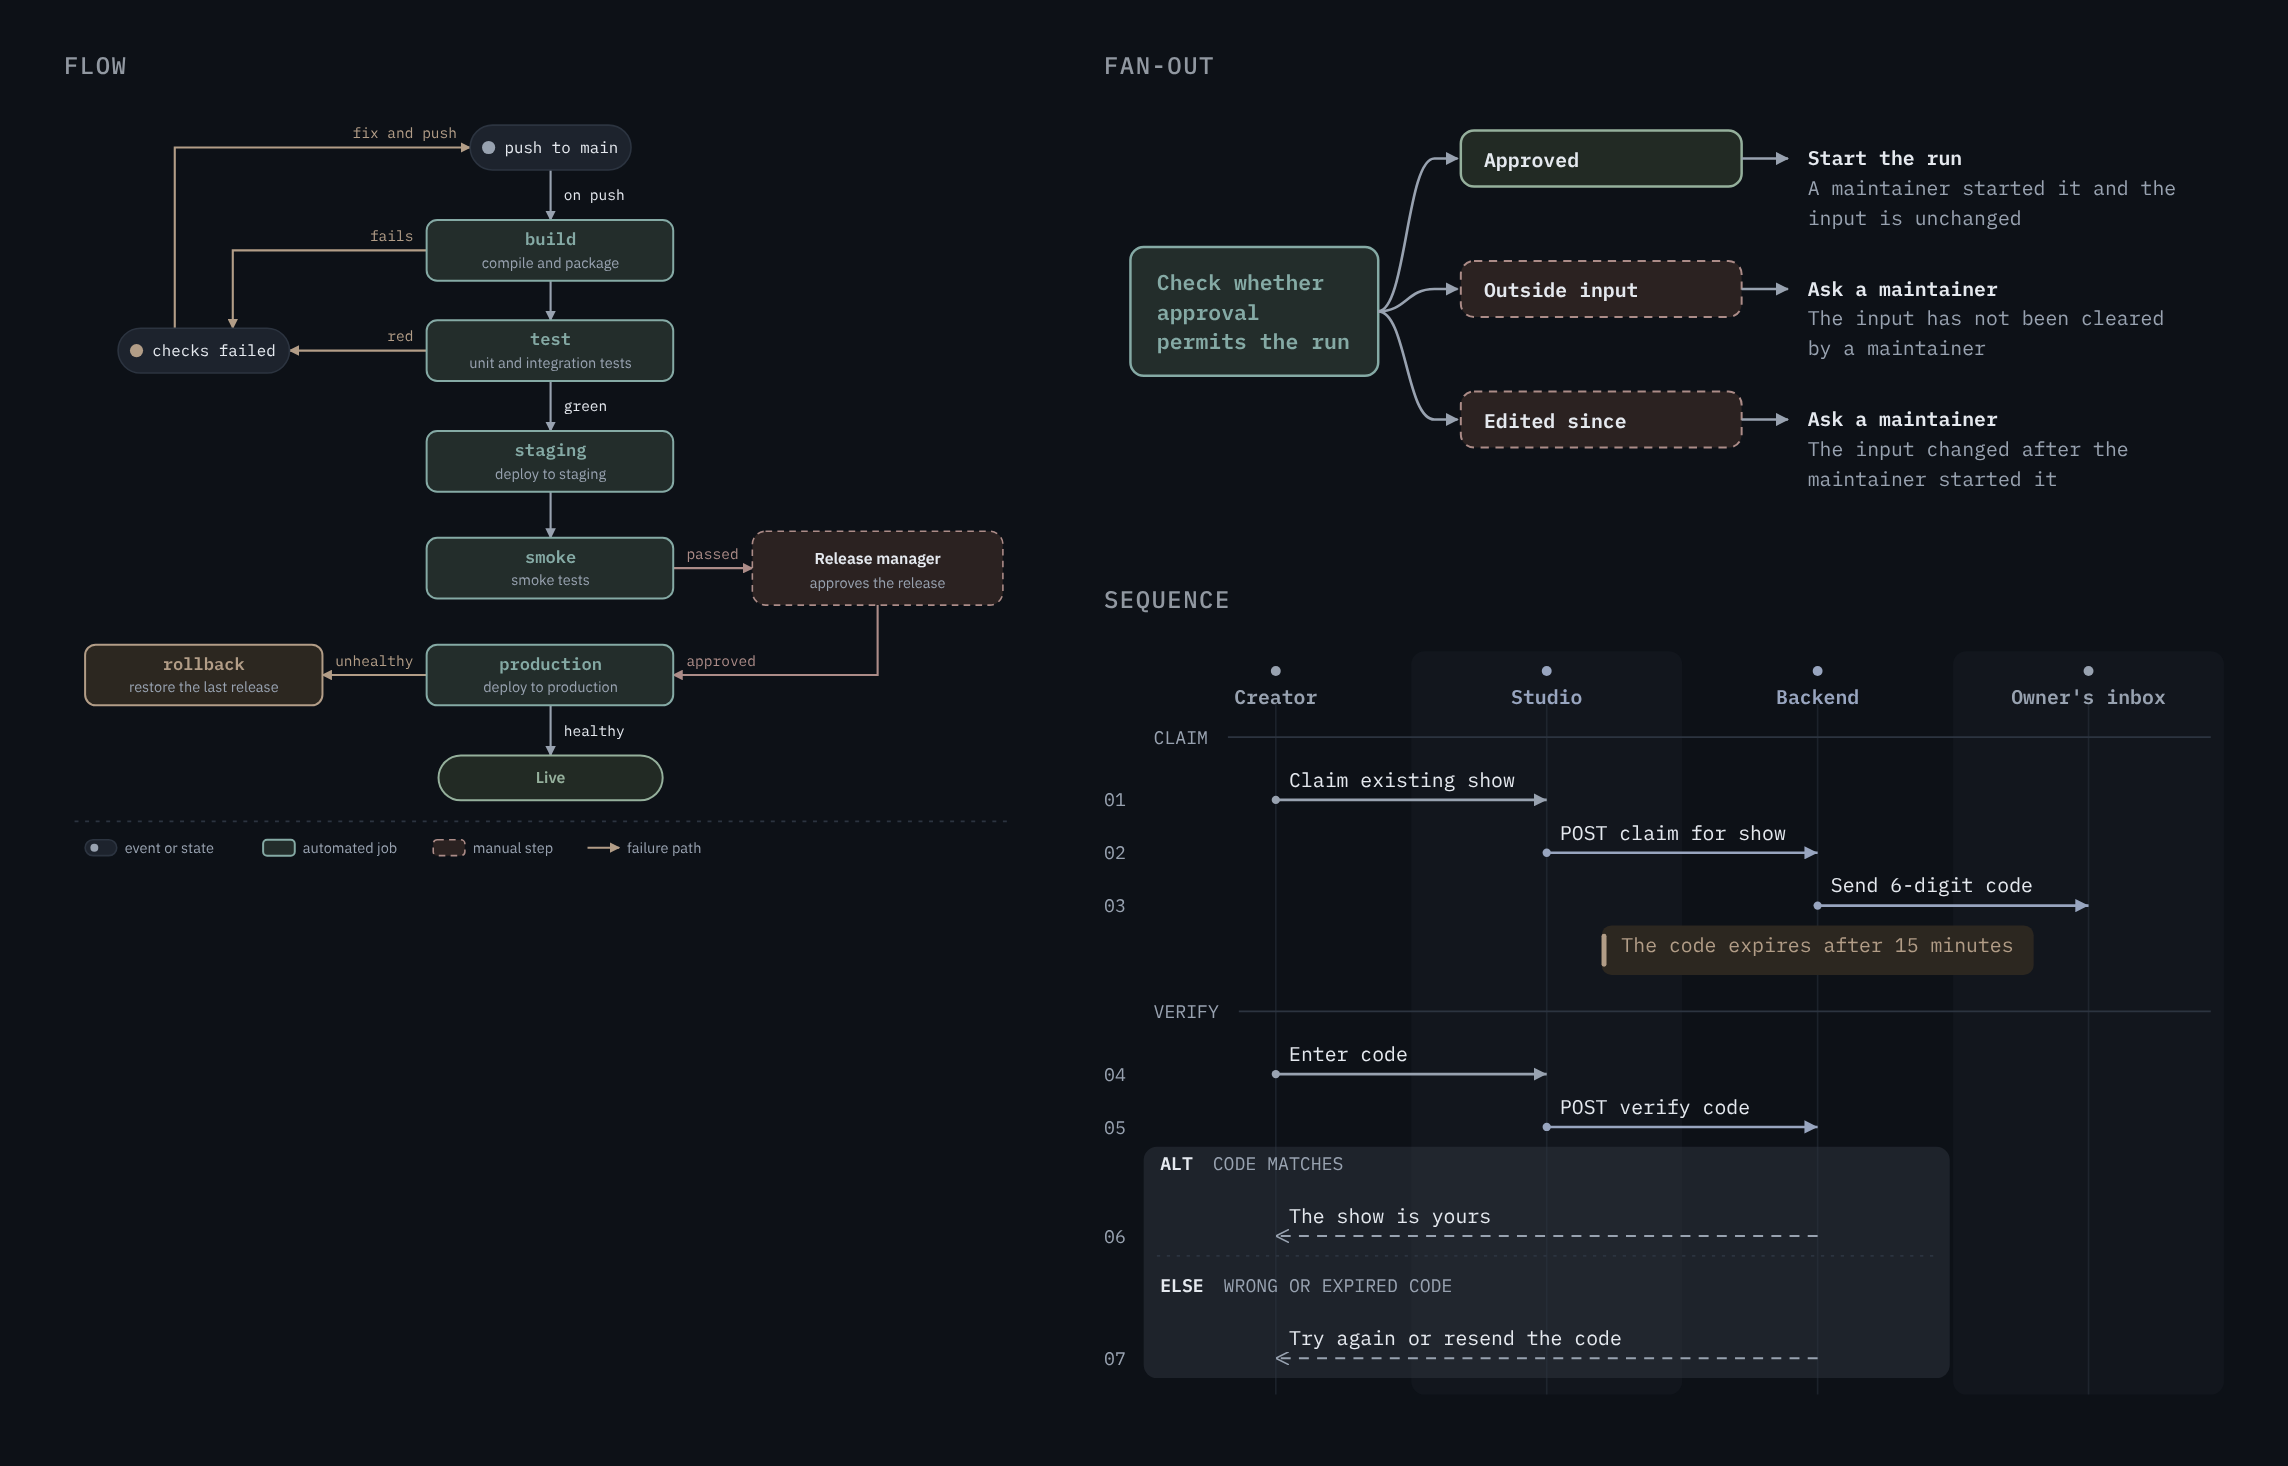
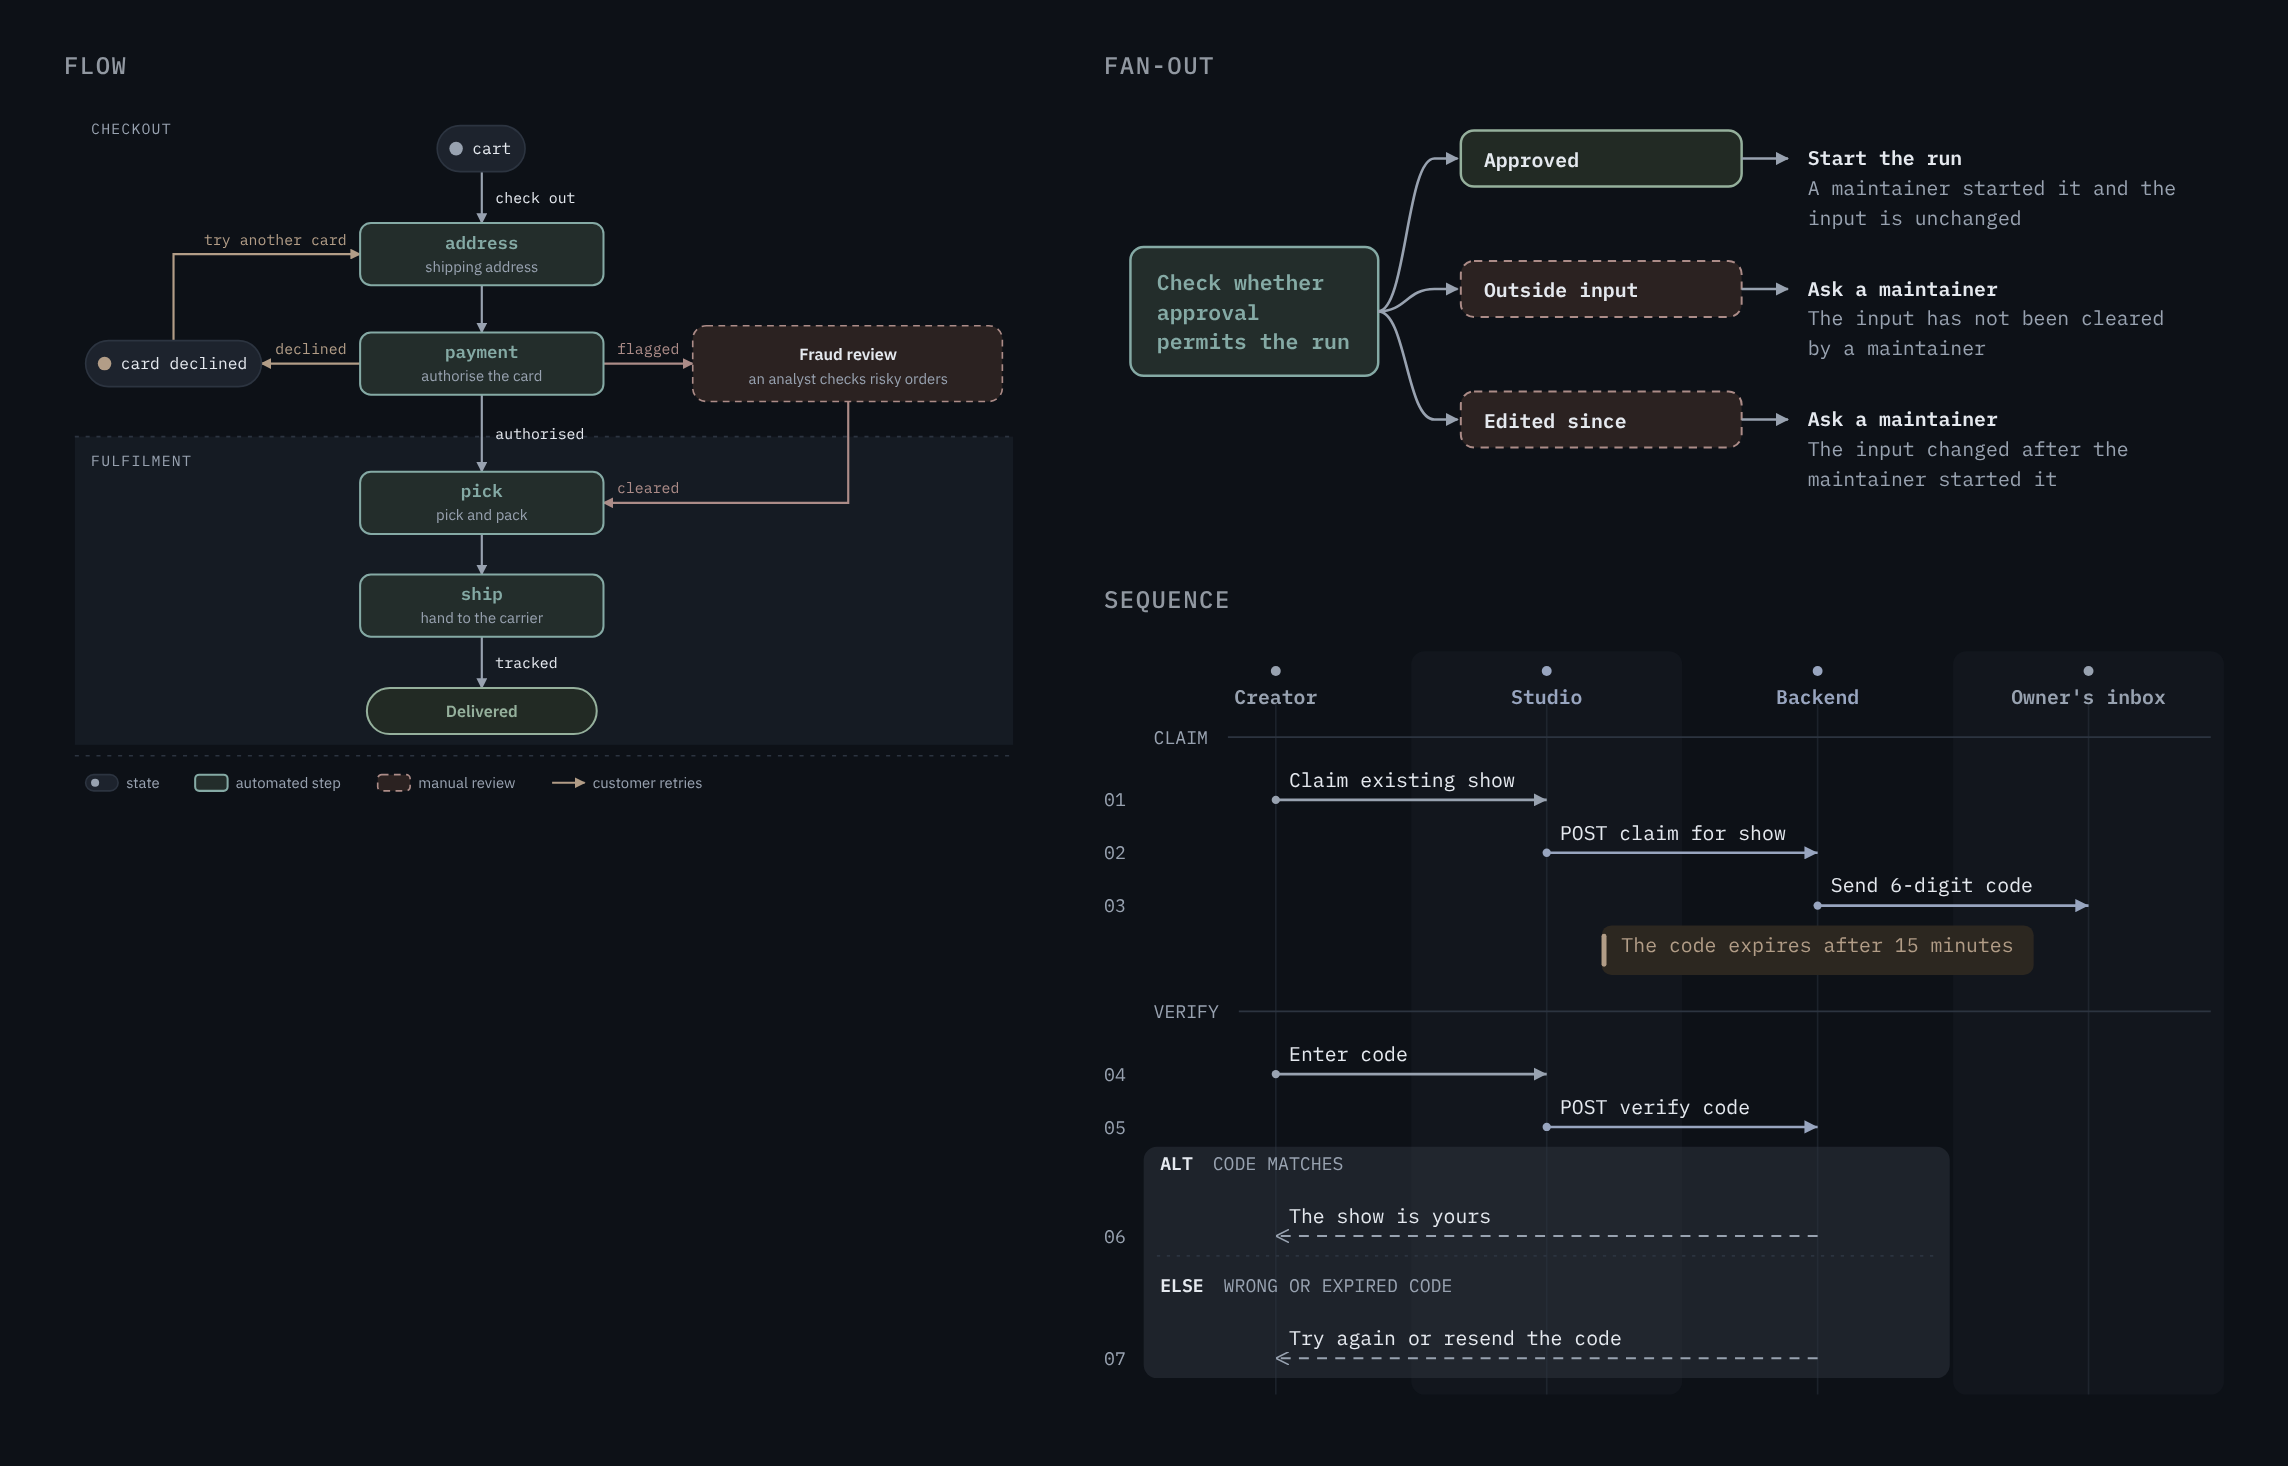
Show the online order in the kinds figure, so it doesn't repeat the deploy flow
Claude-Session: https://claude.ai/code/session_01L8bD6wDA1LoFmEcN2QnG38

diff --git a/README.md b/README.md
@@ -25,7 +25,7 @@ with your own colours through `--ab-*` custom properties.
 
 <picture>
   <source media="(prefers-color-scheme: dark)" srcset="https://raw.githubusercontent.com/uberblick-ai/ablauf/main/docs/images/kinds-dark.png">
-  <img alt="A deploy pipeline as a flow, an approval check as a fan-out with three outcomes, and a podcast claim as a sequence between Creator, Studio, Backend and Owner's inbox." src="https://raw.githubusercontent.com/uberblick-ai/ablauf/main/docs/images/kinds-light.png">
+  <img alt="An online order as a flow, an approval check as a fan-out with three outcomes, and a podcast claim as a sequence between Creator, Studio, Backend and Owner's inbox." src="https://raw.githubusercontent.com/uberblick-ai/ablauf/main/docs/images/kinds-light.png">
 </picture>
 
 ## Playback
